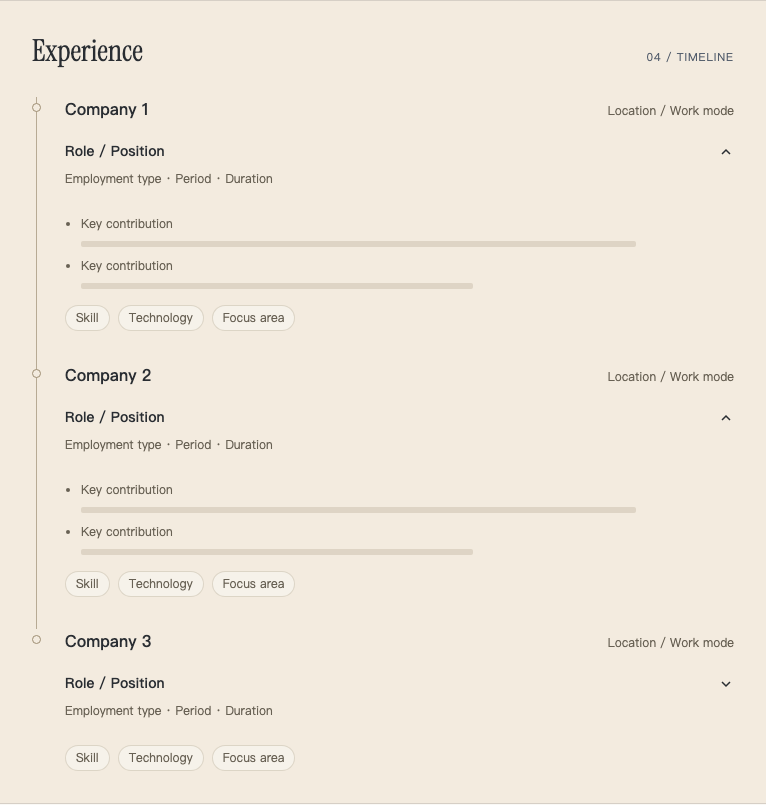
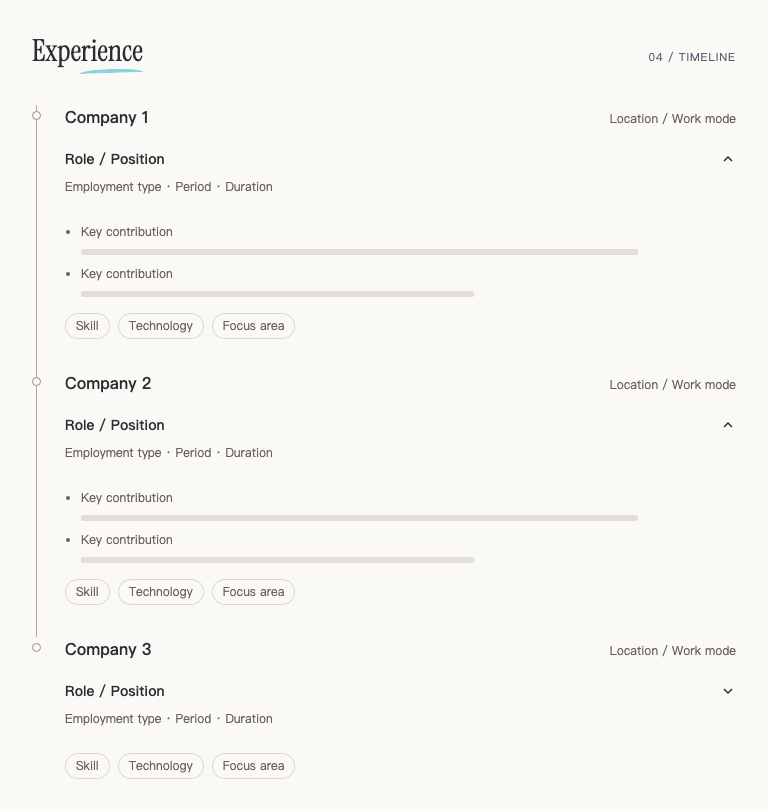
style: simplify preview with borderless warm-white sections

diff --git a/src/styles/global.css b/src/styles/global.css
@@ -15,7 +15,6 @@ body {
   width: min(100% - 48px, 768px);
   margin-inline: auto;
   padding-top: 32px;
-  border-inline: 1px solid #292d3224;
 }
 .preview-note {
   display: flex;
@@ -26,7 +25,6 @@ body {
   font-size: 12px;
 }
 .block {
-  border-block: 1px solid #292d3224;
   padding: 32px;
 }
 main {
@@ -48,7 +46,6 @@ main {
   gap: 20px;
   min-height: 72px;
   padding-block: 20px;
-  background: #e9edf2;
 }
 .nav-slots,
 .action-slots {
@@ -62,7 +59,6 @@ main {
   border-radius: 3px;
 }
 .introduction {
-  background: #e6edf8;
   padding-block: 40px;
 }
 .intro-layout {
@@ -134,9 +130,6 @@ h3 {
   gap: 12px;
   margin-bottom: 28px;
 }
-.selected-work {
-  background: #e8eee6;
-}
 .project-grid {
   display: grid;
   grid-template-columns: repeat(3, minmax(0, 1fr));
@@ -151,16 +144,13 @@ article {
   display: grid;
   place-items: center;
   aspect-ratio: 4 / 3;
-  background: #cddcc7;
+  background: #e6e9e4;
   color: #53664b;
   font-family: Georgia, serif;
   font-size: 36px;
 }
 .project-caption {
   padding: 20px;
-}
-.experience {
-  background: #f3ebdf;
 }
 .timeline {
   list-style: none;
@@ -187,7 +177,7 @@ article {
   top: 6px;
   border: 1px solid #9e8e73;
   border-radius: 50%;
-  background: #f3ebdf;
+  background: #faf9f6;
 }
 .experience-heading {
   display: flex;
@@ -283,9 +273,6 @@ article {
   background: #b2a58e52;
   border-radius: 2px;
 }
-.additional-work {
-  background: #eee8f3;
-}
 .additional-slot {
   display: flex;
   align-items: center;
@@ -293,12 +280,12 @@ article {
   gap: 24px;
   padding: 24px;
   border-radius: 6px;
-  background: #e0d6e9;
+  background: #eeede9;
   font-size: 14px;
 }
 .additional-slot .detail-slot {
   width: 25%;
-  background: #baacc7;
+  background: #c3c2be;
 }
 .hand-underlined {
   position: relative;
@@ -322,11 +309,9 @@ article {
 .footer-content {
   width: min(100% - 48px, 768px);
   margin-inline: auto;
-  border-inline: 1px solid #292d3224;
 }
 .footer-farewell {
   padding: 48px 32px 36px;
-  border-top: 1px solid #292d3224;
 }
 .footer-farewell h2 {
   margin-top: 20px;
@@ -341,13 +326,13 @@ article {
   transform: rotate(-6deg);
 }
 .footer-meta {
+  border-top: 1px solid #292d3214;
   display: flex;
   flex-wrap: wrap;
   align-items: center;
   justify-content: space-between;
   gap: 16px 24px;
   padding: 24px 32px;
-  border-block: 1px solid #292d3224;
   font-size: 12px;
   color: #616771;
 }

diff --git a/docs/layout-review.md b/docs/layout-review.md
@@ -7,9 +7,10 @@ Keep the issue open and do not begin the next content ticket until approval is r
 ## Composition
 
 - A centered content column capped at 768px; 32px section gaps on desktop.
-- Continuous vertical rules frame the column; straight horizontal rules define
-  each region, replacing the rounded outer cards.
-- Six distinguishable regions (colored content placeholders and an illustrated footer): navigation, introduction,
+- The latest revision removes continuous side rules and section borders, using
+  warm white surfaces and whitespace. The Experience timeline and one faint
+  footer metadata divider remain; project-card borders are still provisional.
+- Six regions, separated by spacing and headings rather than colored panels: navigation, introduction,
   selected work, experience, additional work, and footer.
 - A generous introduction followed immediately by three equally weighted project
   slots. Three independently collapsible timeline entries and one additional-work slot follow.
@@ -41,7 +42,7 @@ Section headings use a restrained blue curved underline, inspired by the supplie
 Opensource UI reference. This is original native CSS, without importing its React
 components or adding a framework dependency.
 
-The footer text keeps the 768px column and hairline borders. Its farewell and
+The footer text keeps the 768px column without outer borders. Its farewell and
 script-font signature concept sit above a compact copyright/contact row. The
 Tianchi illustration extends up to 1440px, scales down proportionally on phones,
 and blends its white background into the warm page surface. The PNG is the original
@@ -52,8 +53,7 @@ only a system-script-font placeholder, not a finished custom signature asset.
 [Desktop footer](layout-evidence/footer-desktop.png) ·
 [Mobile footer](layout-evidence/footer-mobile.png)
 
-768px is a composition choice, not an accessibility requirement. After side
-borders and 32px padding, the main text area is about 702px. Real bilingual text
+768px is a composition choice, not an accessibility requirement. After 32px side padding, the main text area is about 704px. Real bilingual text
 will need its own line-length check and narrower paragraph measures if necessary.
 The landscape can extend wider without making prose lines longer.
 
@@ -121,8 +121,9 @@ side rules and horizontal section dividers. Caven also requested an expanded Exp
 period, role, and two contributions per entry, then requested independent
 expand/collapse behavior matching the supplied reference screenshots. The latest
 revision keeps summary information and tags visible while toggling contributions.
-The latest request adds the complete heading/footer preview with the Tianchi
-candidate. These requests are not final approval.
+The latest revision removes outer lines and colored section backgrounds at
+Caven's request, preserving the Experience timeline and a single footer divider.
+These requests are not final approval.
 
 Pending. Review the relative width, section spacing, introduction height,
 project-card proportions, and mobile reading order. Record Caven's decision
